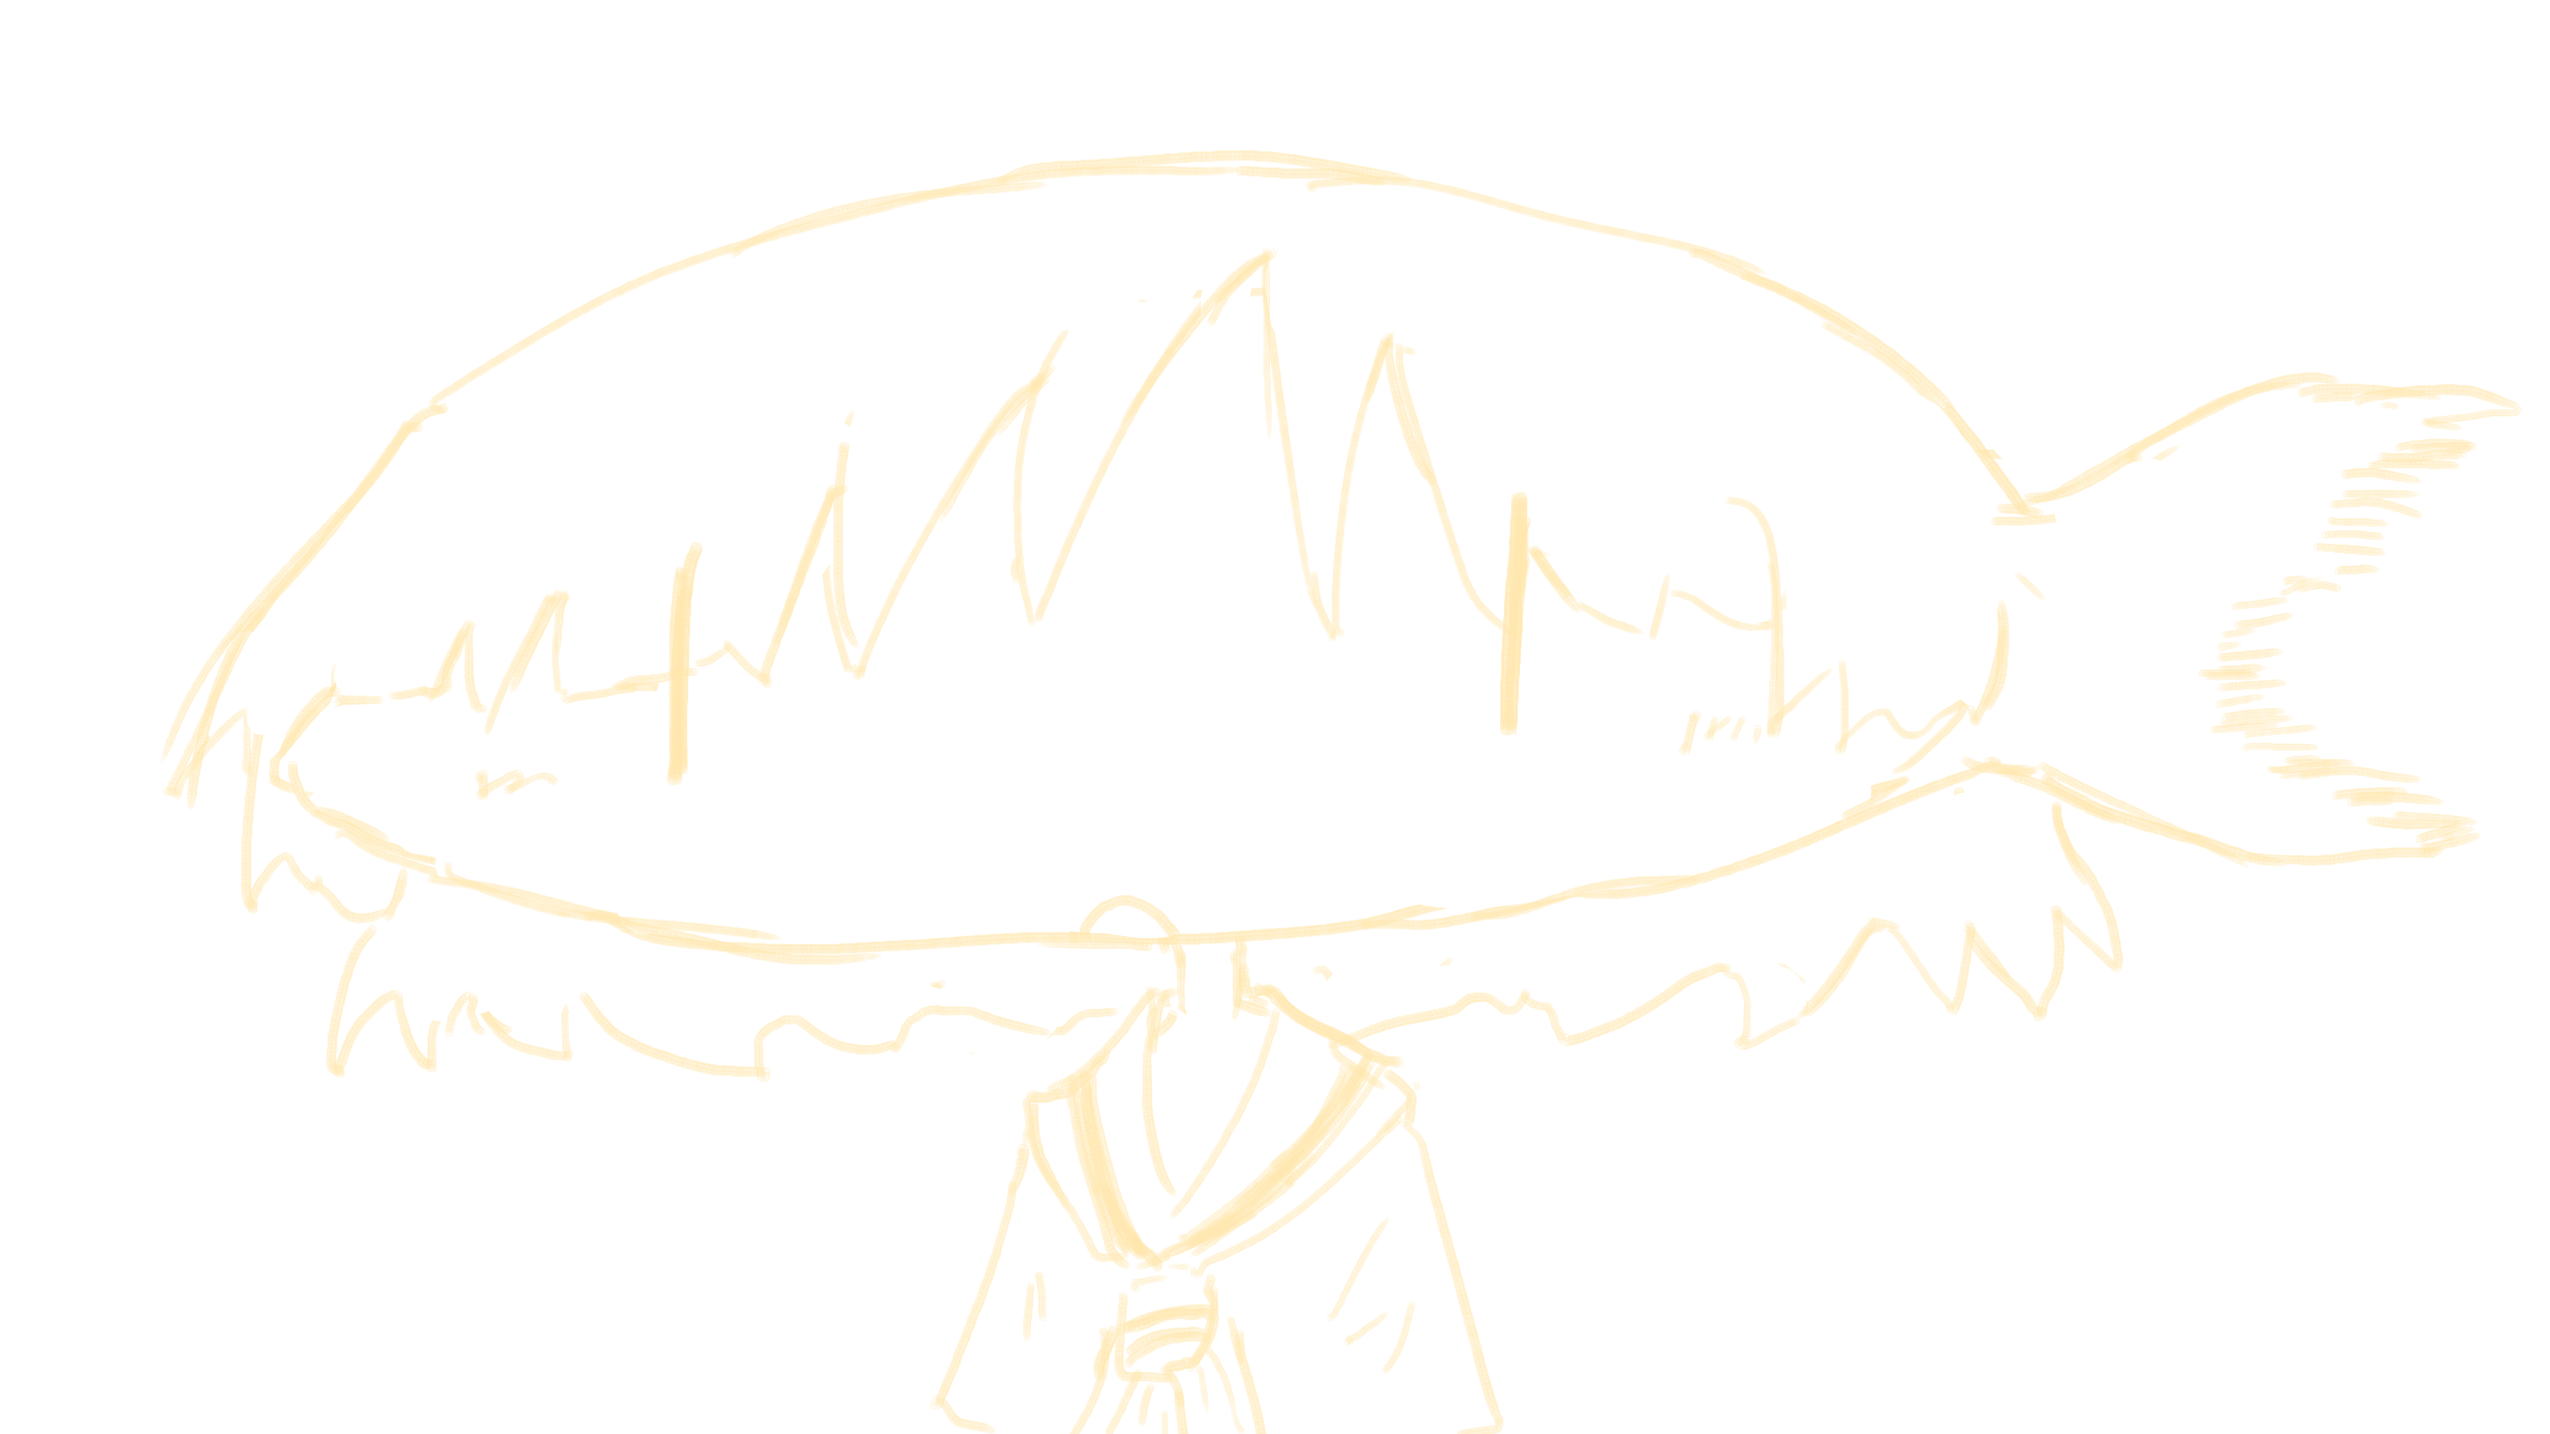
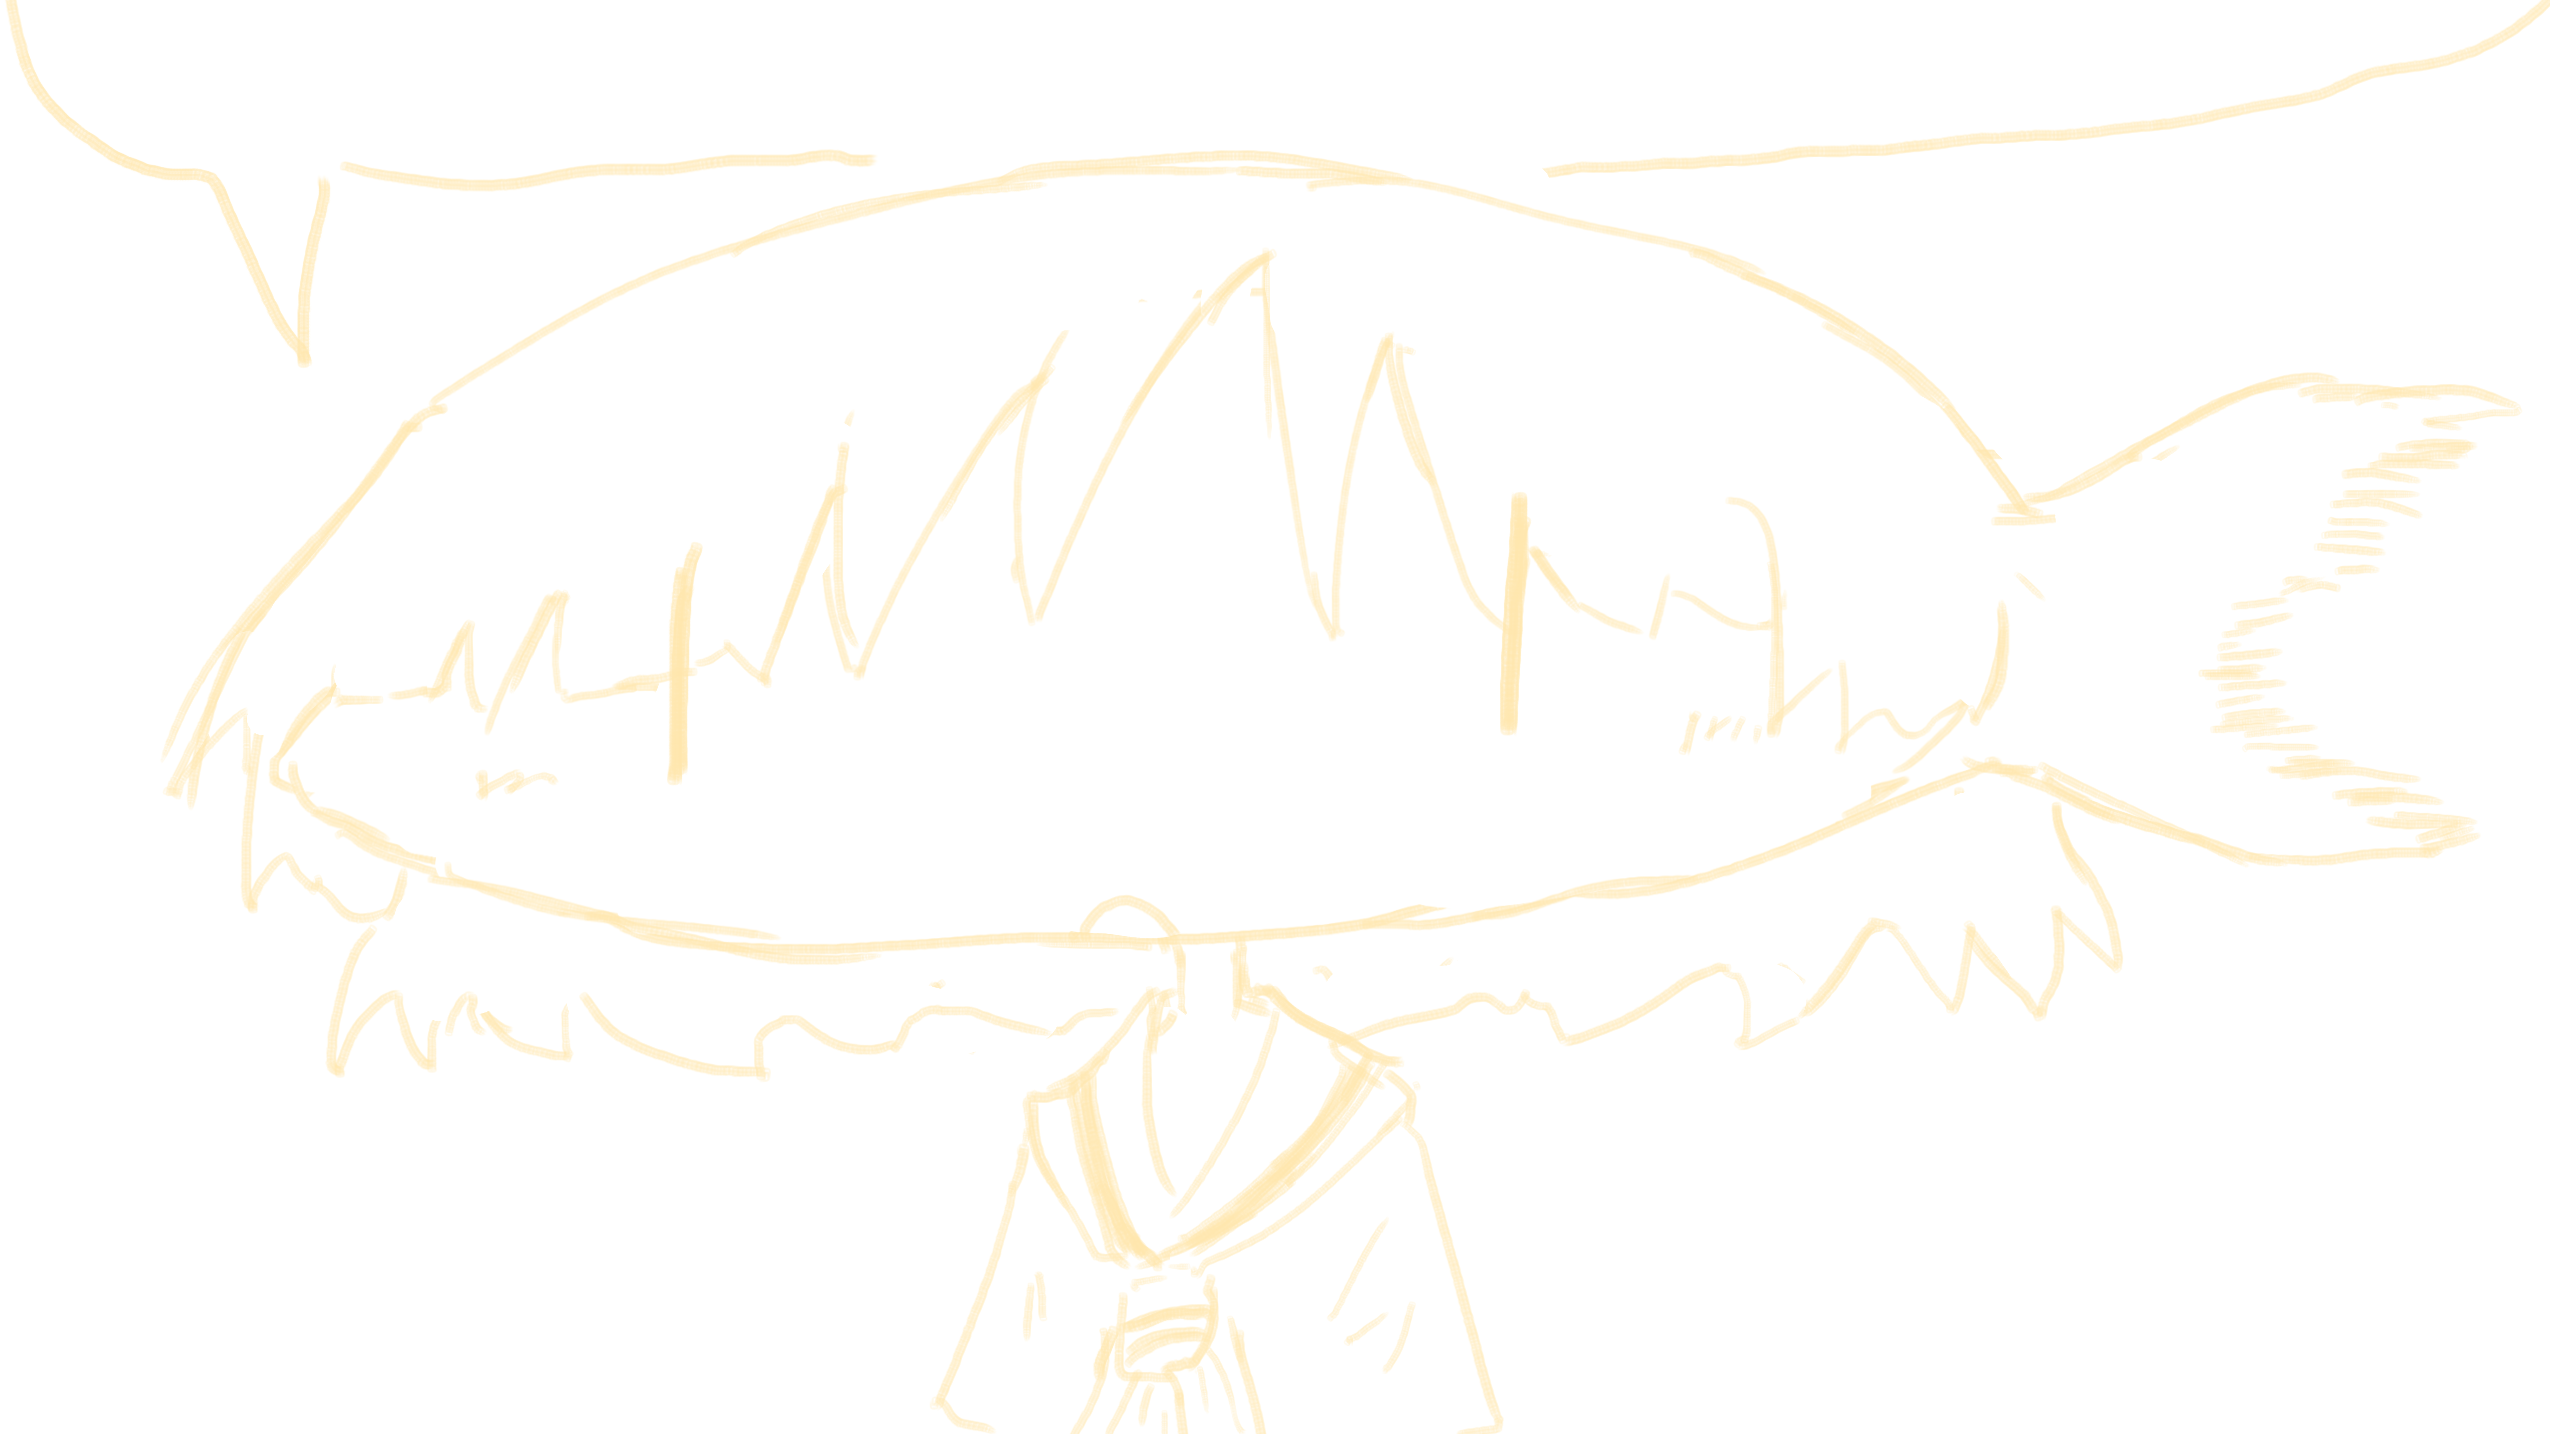
Add files via upload

diff --git a/chuanfan.css b/chuanfan.css
@@ -110,10 +110,22 @@
     float: right;
     border: 1px solid #ffe6ac;
     color: #ffe6ac;
-    margin: 5px 40px 5px;
+    margin: 5px 40px 5px 5px;
     max-width: 600px;
     padding: 20px;
     line-height: 1.5;
     border-radius: 8px;
     box-sizing: border-box;
+}
+.his-title {
+    text-align: left;
+    color: #ffe6ac;
+    margin-top: -10px;
+}
+.footer-text {
+    text-align: center;
+    color: #ffe6ac;
+    font-size: 12px;
+    margin-top: 20px;
+    margin-bottom: 20px;
 }

diff --git a/index.html b/index.html
@@ -72,4 +72,7 @@
                 </div>
             </div>
     </body>
+    <footer>
+        <p class="footer-text">卷飯鎮區公所</p>
+    </footer>
 </html>
